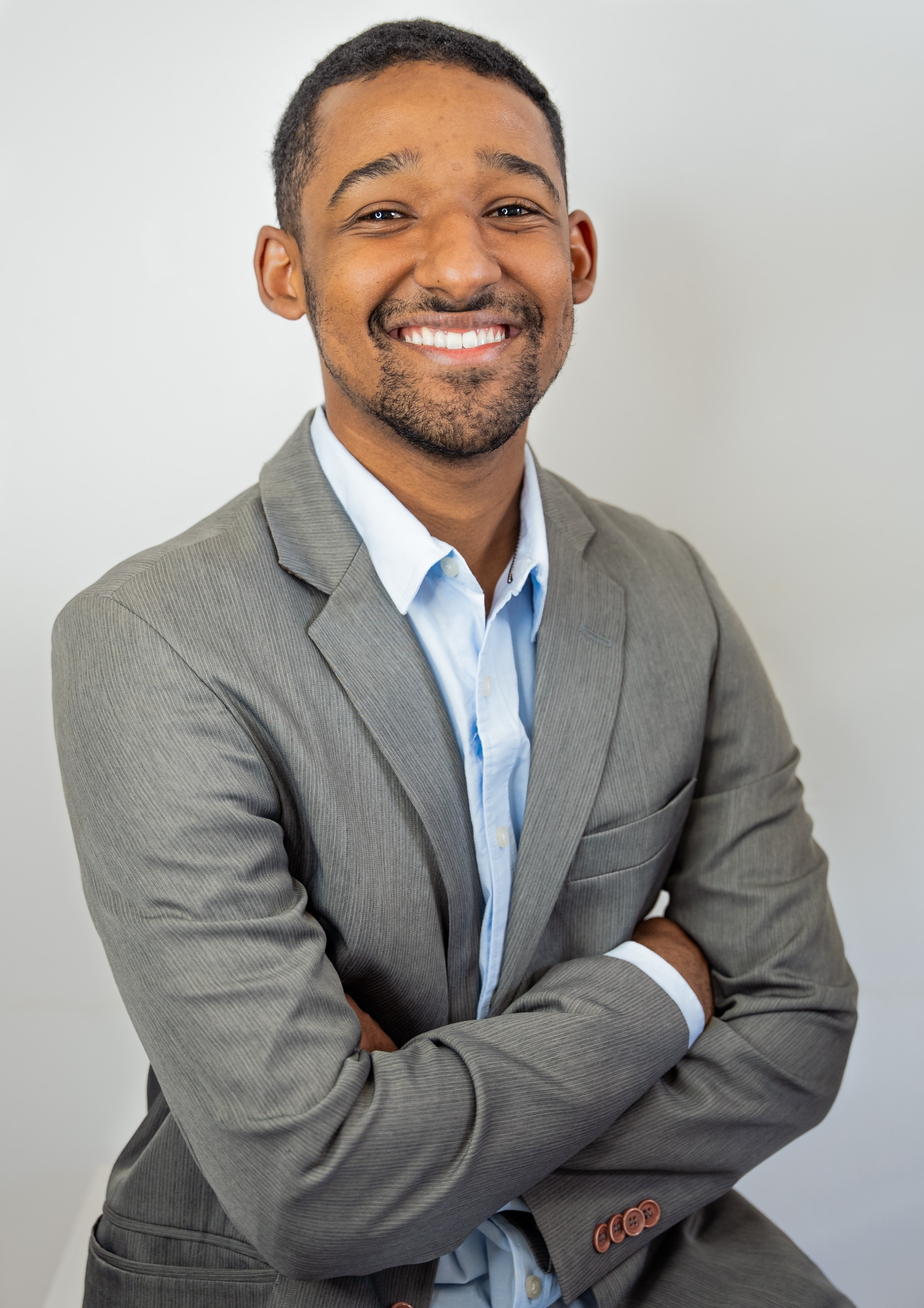
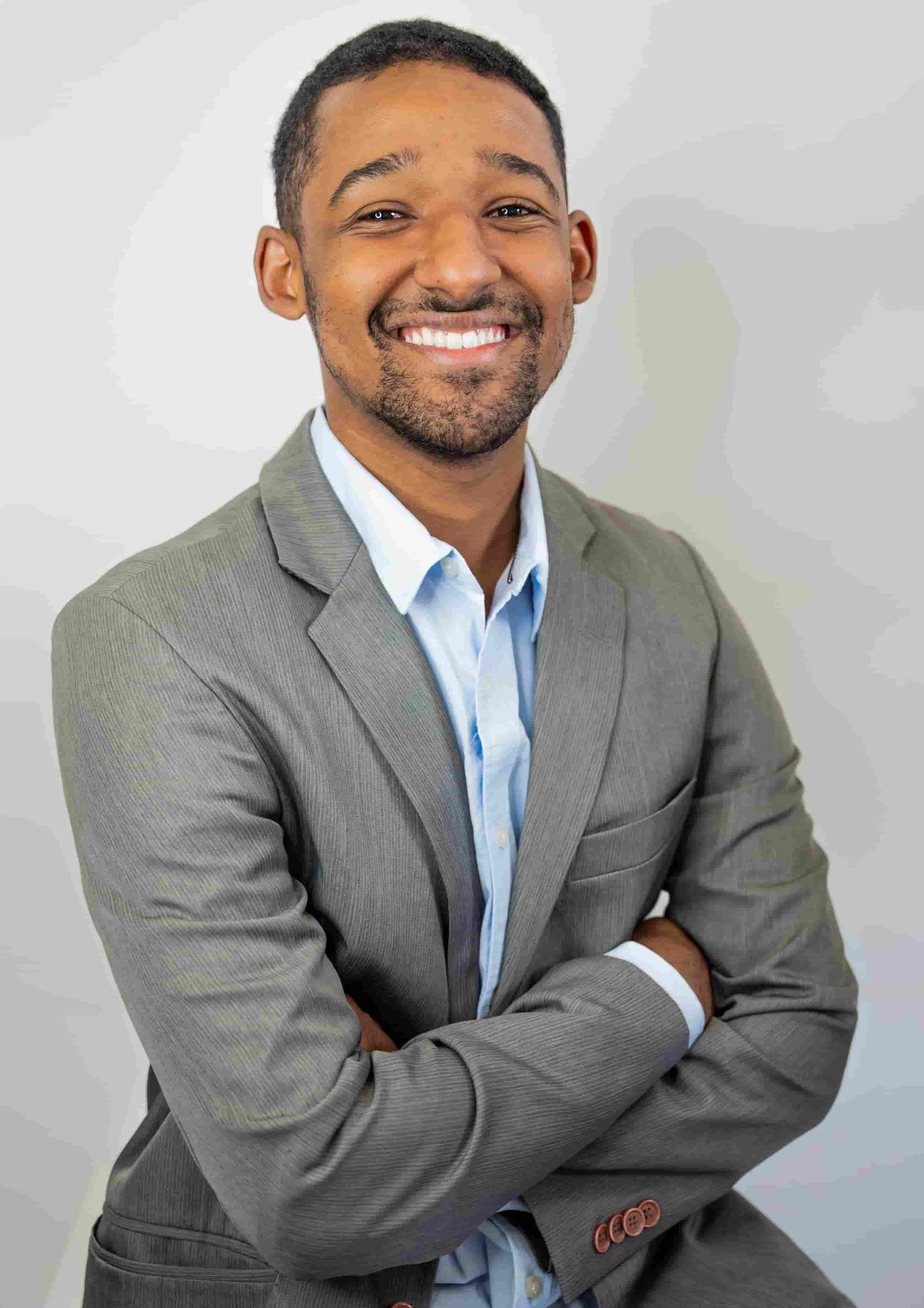
Updated

diff --git a/index.html b/index.html
@@ -45,7 +45,7 @@
                     curious about how technology transforms the world, and that curiosity
                     led me to programming.</p>
 
-                <img src="./images/matheus-malaquias copy.jpg" alt="Photo of Matheus Malaquias">
+                <img src="./images/matheus-malaquias.jpg" alt="Photo of Matheus Malaquias">
             </div>
         </section>
 
